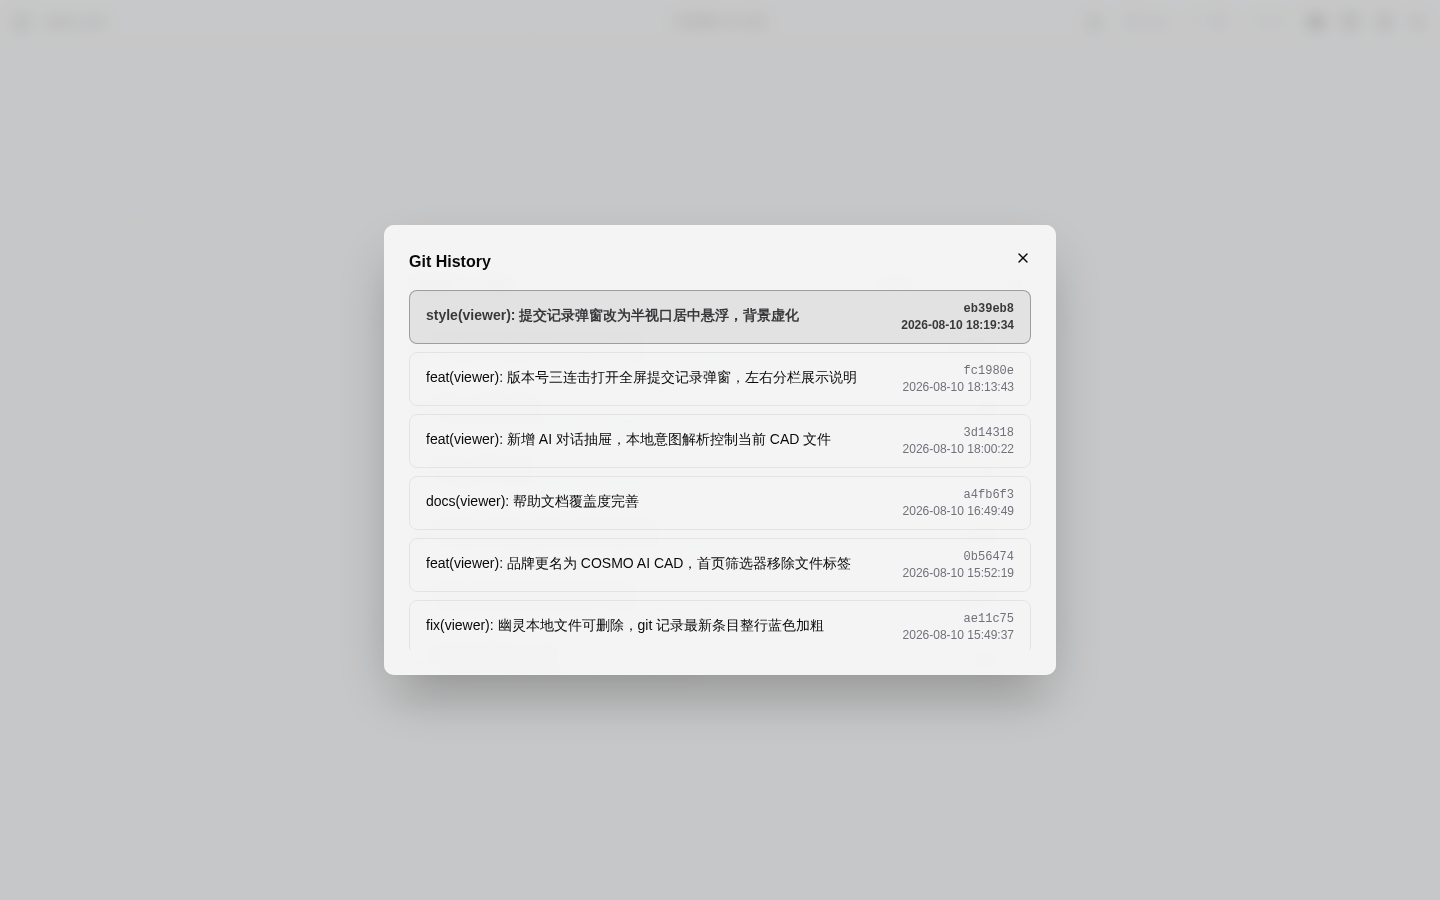
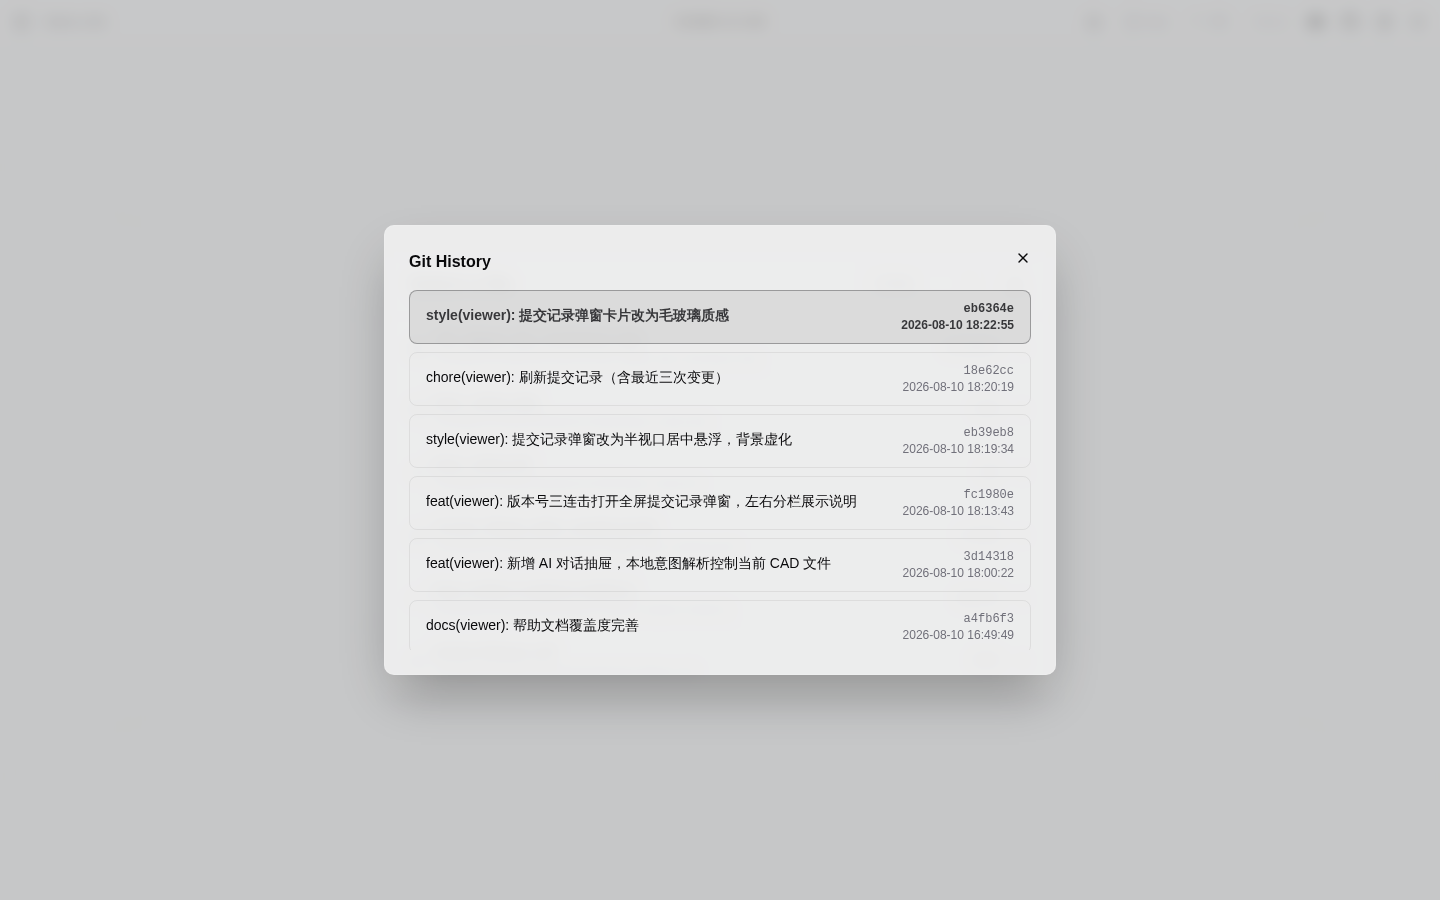
style(viewer): 提交记录弹窗背景透明度调整为 30%

diff --git a/viewer/src/client/components/workbench/CadWorkspaceTopBar.js b/viewer/src/client/components/workbench/CadWorkspaceTopBar.js
@@ -938,7 +938,7 @@ function GitLogDialog({ open, onOpenChange }) {
         className="fixed inset-0 z-50 flex h-[100dvh] w-screen max-w-none translate-x-0 translate-y-0 items-center justify-center rounded-none border-0 bg-transparent p-6 backdrop-blur-sm sm:max-w-none"
         showCloseButton={false}
       >
-        <div className="relative flex h-[50dvh] w-full max-w-2xl min-w-0 flex-col gap-4 rounded-lg border border-white/10 bg-popover/75 p-6 text-popover-foreground shadow-2xl shadow-black/30 backdrop-blur-xl">
+        <div className="relative flex h-[50dvh] w-full max-w-2xl min-w-0 flex-col gap-4 rounded-lg border border-white/10 bg-popover/30 p-6 text-popover-foreground shadow-2xl shadow-black/30 backdrop-blur-xl">
           <DialogHeader className="text-left">
             <DialogTitle className="text-base font-semibold">{t("gitLogTitle")}</DialogTitle>
             <Button
